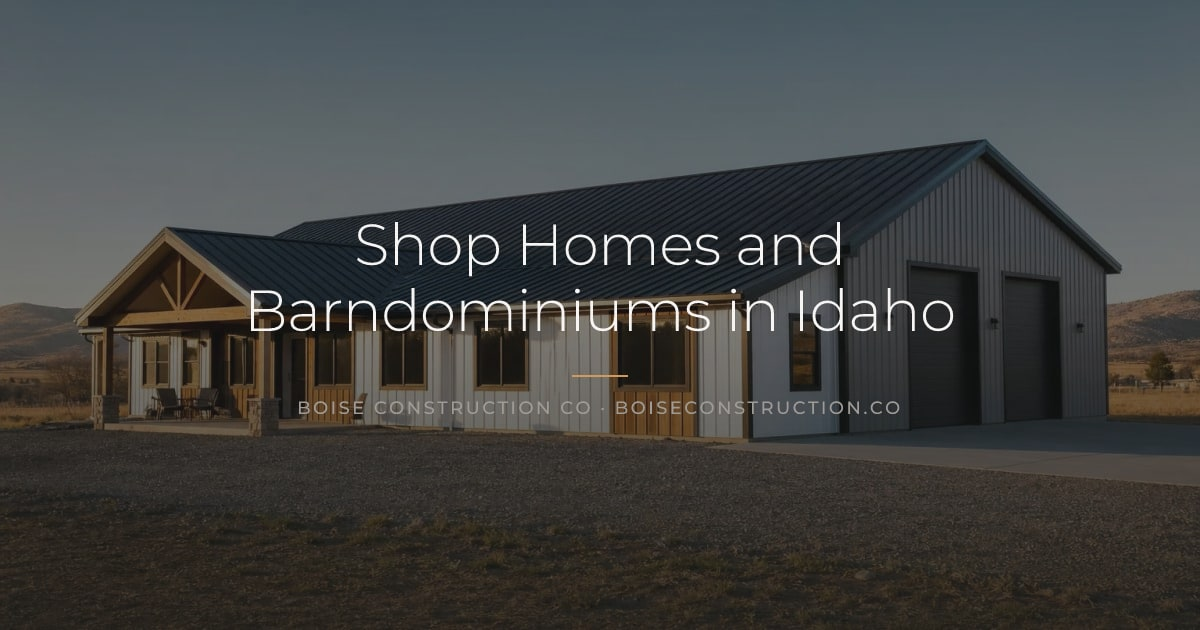
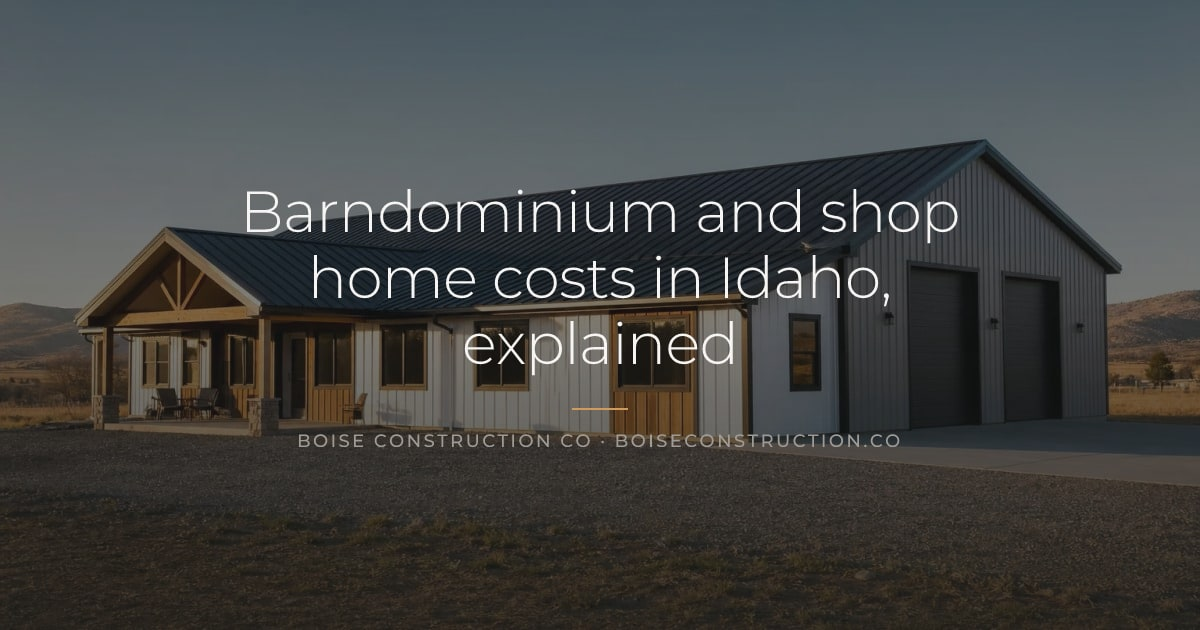
Blog and guides: separate the cost intents and retitle colliding posts
- Cost pages: the pillar is the planning guide ("Boise Home Building Cost Guide 2026", keyword "boise home building cost guide"); /blog/cost-to-build-a-house-boise keeps the overall question with the year and dollar answer back in its title and snippet ("Cost to Build a House in Boise, 2026"); /blog/custom-home-cost-per-square-foot-boise is the per-square-foot breakdown ("Custom Home Cost per Sq Ft in Boise"). H1s were already distinct and the three already cross-link.
- /blog/shop-homes-and-barndominiums-idaho: "Barndominium Cost in Idaho Explained", H1 "Barndominium and shop home costs in Idaho, explained", keyword "barndominium cost idaho" (OG card regenerated).
- /blog/energy-efficient-home-building-boise: "Energy-Efficient Home Building Guide" (how-to), so it stops echoing the service page.
- /blog/ada-vs-canyon-county-permit-timelines: "Building in Ada vs Canyon County", keyword "building in ada vs canyon county", leaving "permit flow" to /resources/ada-canyon-permit-flow.
- Process pillar title "Boise Home Building Process Guide" (its authored title would have rendered at 69 once the render-time override was removed).

Claude-Session: https://claude.ai/code/session_017rQia1rwhAKrj4DBt62Joj

Changed region(s): [[0.185, 0.3016, 0.8017, 0.6032], [0.2467, 0.6937, 0.74, 0.7238], [0.2467, 0.6333, 0.74, 0.6635]]

diff --git a/shared/content/pillars/boise-home-building-cost-guide.ts b/shared/content/pillars/boise-home-building-cost-guide.ts
@@ -3,16 +3,19 @@ import type { GuidePageData } from '../../guideContent';
 export const boiseHomeBuildingCostGuide: GuidePageData = {
   slug: 'boise-home-building-cost-guide',
   title: 'Boise Home Building Cost Guide',
-  seoTitle: 'Boise Home Building Cost Guide (2026)',
+  // The complete planning guide. The two cost posts own the narrower intents:
+  // /blog/cost-to-build-a-house-boise (the overall cost question) and
+  // /blog/custom-home-cost-per-square-foot-boise (the per-square-foot breakdown).
+  seoTitle: 'Boise Home Building Cost Guide 2026',
   metaDescription:
-    'What it costs to build a house in Boise in 2026: per square foot bands, site work, land, design fees, allowances, financing, contingency, and real budgeting.',
+    'Boise home building cost guide for 2026: per square foot bands, site work, land, design fees, allowances, financing and contingency, in one planning guide.',
   excerpt:
     'The complete picture of what a new home costs in the Treasure Valley: the published bands, what the per-square-foot number leaves out, why bids differ, and how to set a budget that survives a real quote.',
   hubSlug: 'home-building-costs',
   guideType: 'hub-pillar',
   author: 'Boise Construction Co',
   publishedAt: '2026-06-20',
-  tags: ['cost', 'budgeting', 'custom home', 'new construction', 'boise', 'treasure valley'],  primaryKeyword: 'cost to build a house in boise',
+  tags: ['cost', 'budgeting', 'custom home', 'new construction', 'boise', 'treasure valley'],  primaryKeyword: 'boise home building cost guide',
   quickAnswer:
     'Building a custom home in the Boise area costs $250 to $400 per finished square foot in 2026, or $600,000 to $960,000 at 2,400 square feet, excluding land. Semi-custom homes run $225 to $300. Site work adds $25,000 to $50,000 on a serviced lot and $80,000 to $150,000 on a rural parcel.',
   keyTakeaways: [

diff --git a/shared/content/wave2/shop-homes-and-barndominiums-idaho.ts b/shared/content/wave2/shop-homes-and-barndominiums-idaho.ts
@@ -2,10 +2,12 @@ import type { BlogPostData } from '../../blogContent';
 
 export const shopHomesAndBarndominiumsIdaho: BlogPostData = {
   slug: 'shop-homes-and-barndominiums-idaho',
-  title: 'Shop Homes and Barndominiums in Idaho',
-  seoTitle: 'Shop Homes and Barndominiums, Idaho',
+  title: 'Barndominium and shop home costs in Idaho, explained',
+  // Cost angle, so the post stops echoing the service page title
+  // ("Barndominium & Shop Homes" at /services/shop-homes-barndominiums).
+  seoTitle: 'Barndominium Cost in Idaho Explained',
   metaDescription:
-    'Shop homes and barndominiums in Idaho: why they cost $150 to $250 per square foot blended, the real trade-offs, zoning, financing, and insulating a shop.',
+    'Barndominium cost in Idaho explained: why shop homes run $150 to $250 per square foot blended, the real trade-offs, zoning, financing and shop insulation.',
   excerpt:
     'A post-frame or steel-framed building that pairs finished living space with a working shop costs less per square foot than a conventional house. Here is where the savings come from, what you give up, and who these actually suit.',
   category: 'Design & Floor Plans',
@@ -13,9 +15,9 @@ export const shopHomesAndBarndominiumsIdaho: BlogPostData = {
   author: 'Boise Construction Co',
   publishedAt: '2026-07-22',
   tags: ['barndominium', 'shop home', 'post frame', 'new construction', 'idaho'],
-  primaryKeyword: 'shop homes and barndominiums idaho',
+  primaryKeyword: 'barndominium cost idaho',
   secondaryKeywords: [
-    'barndominium cost idaho',
+    'shop homes and barndominiums idaho',
     'shop house treasure valley',
     'post frame home builder boise',
   ],

diff --git a/shared/content/wave2/ada-vs-canyon-county-permit-timelines.ts b/shared/content/wave2/ada-vs-canyon-county-permit-timelines.ts
@@ -3,9 +3,11 @@ import type { BlogPostData } from '../../blogContent';
 export const adaVsCanyonCountyPermitTimelines: BlogPostData = {
   slug: 'ada-vs-canyon-county-permit-timelines',
   title: 'Ada vs Canyon County: What Differs When You Build',
-  seoTitle: 'Ada vs Canyon: Building Differences',
+  // What differs between the counties; /resources/ada-canyon-permit-flow owns
+  // the step-by-step "permit flow".
+  seoTitle: 'Building in Ada vs Canyon County',
   metaDescription:
-    'Building in Ada County versus Canyon County: separate permit portals, different review cadence, impact fee structures, and how rural septic is handled.',
+    'Building in Ada County versus Canyon County: separate permit portals, review cadence, impact fee structures, highway districts and septic health districts.',
   excerpt:
     'The house is the same on both sides of the county line. The submittal path, the fee structure, and the agencies you deal with are not. Here is what changes.',
   category: 'The Building Process',
@@ -13,7 +15,7 @@ export const adaVsCanyonCountyPermitTimelines: BlogPostData = {
   author: 'Boise Construction Co',
   publishedAt: '2026-06-24',
   tags: ['permits', 'ada county', 'canyon county', 'building process'],
-  primaryKeyword: 'ada vs canyon county building permits',
+  primaryKeyword: 'building in ada vs canyon county',
   secondaryKeywords: [
     'canyon county building permit',
     'ada county permit process',

diff --git a/shared/content/wave2/custom-home-cost-per-square-foot-boise.ts b/shared/content/wave2/custom-home-cost-per-square-foot-boise.ts
@@ -3,9 +3,9 @@ import type { BlogPostData } from '../../blogContent';
 export const customHomeCostPerSquareFootBoise: BlogPostData = {
   slug: 'custom-home-cost-per-square-foot-boise',
   title: 'Custom Home Cost Per Square Foot in Boise',
-  seoTitle: 'Custom Home Cost Per Square Foot in Boise',
+  seoTitle: 'Custom Home Cost per Sq Ft in Boise',
   metaDescription:
-    'What a Boise cost per square foot figure includes, why larger homes cost less per square foot, and why two builders can quote rates that cannot be compared.',
+    'Custom home cost per square foot in Boise: what the figure includes, why bigger homes cost less per foot, and why rates from two builders rarely compare.',
   excerpt:
     'A per-square-foot rate is an output of a finished project, not a price. Here is what it hides, why size and storeys change it, and how to compare builders properly.',
   category: 'Home Building Costs',

diff --git a/shared/content/wave2/cost-to-build-a-house-boise.ts b/shared/content/wave2/cost-to-build-a-house-boise.ts
@@ -3,9 +3,9 @@ import type { BlogPostData } from '../../blogContent';
 export const costToBuildAHouseBoise: BlogPostData = {
   slug: 'cost-to-build-a-house-boise',
   title: 'How Much Does It Cost to Build a House in Boise?',
-  seoTitle: 'Cost to Build a House in Boise (2026)',
+  seoTitle: 'Cost to Build a House in Boise, 2026',
   metaDescription:
-    'Building a custom home in Boise costs $250 to $400 per finished square foot in 2026, or $600,000 to $960,000 at 2,400 square feet, before land.',
+    'Cost to build a house in Boise in 2026: $250 to $400 per finished square foot, or $600,000 to $960,000 at 2,400 square feet, before land and site work.',
   excerpt:
     'A custom home in the Boise area runs $250 to $400 per finished square foot, excluding land. Here is where that money goes and why the band is so wide.',
   category: 'Home Building Costs',

diff --git a/shared/content/wave2/energy-efficient-home-building-boise.ts b/shared/content/wave2/energy-efficient-home-building-boise.ts
@@ -3,7 +3,8 @@ import type { BlogPostData } from '../../blogContent';
 export const energyEfficientHomeBuildingBoise: BlogPostData = {
   slug: 'energy-efficient-home-building-boise',
   title: 'Building an Energy-Efficient Home in Boise',
-  seoTitle: 'Energy-Efficient Homes in Boise',
+  // How-to intent; the service page owns "energy-efficient homes".
+  seoTitle: 'Energy-Efficient Home Building Guide',
   metaDescription:
     'How to build an energy-efficient home in Boise: air sealing, insulation, window specs, right-sized HVAC, ducts inside, and blower-door verification.',
   excerpt:

diff --git a/shared/content/pillars/boise-home-building-process-guide.ts b/shared/content/pillars/boise-home-building-process-guide.ts
@@ -3,7 +3,7 @@ import type { GuidePageData } from '../../guideContent';
 export const boiseHomeBuildingProcessGuide: GuidePageData = {
   slug: 'boise-home-building-process-guide',
   title: 'The Boise Home Building Process',
-  seoTitle: 'The Boise Home Building Process, Step by Step',
+  seoTitle: 'Boise Home Building Process Guide',
   metaDescription:
     'How building a home in the Treasure Valley works, from the first meeting through design, Ada and Canyon County permits, construction, and the warranty.',
   excerpt:
